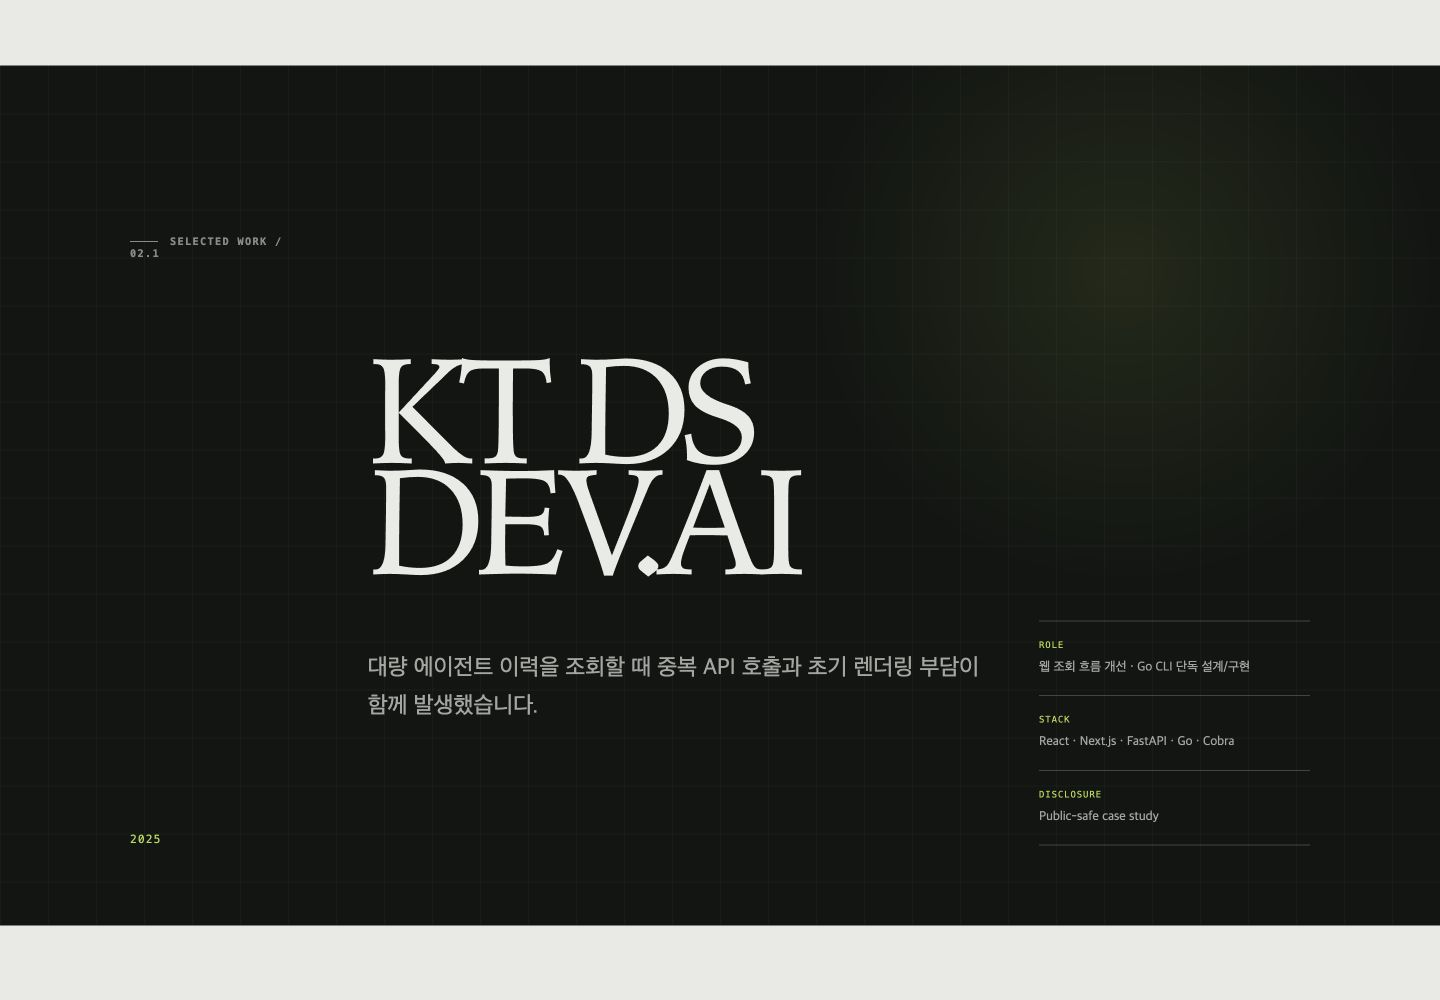
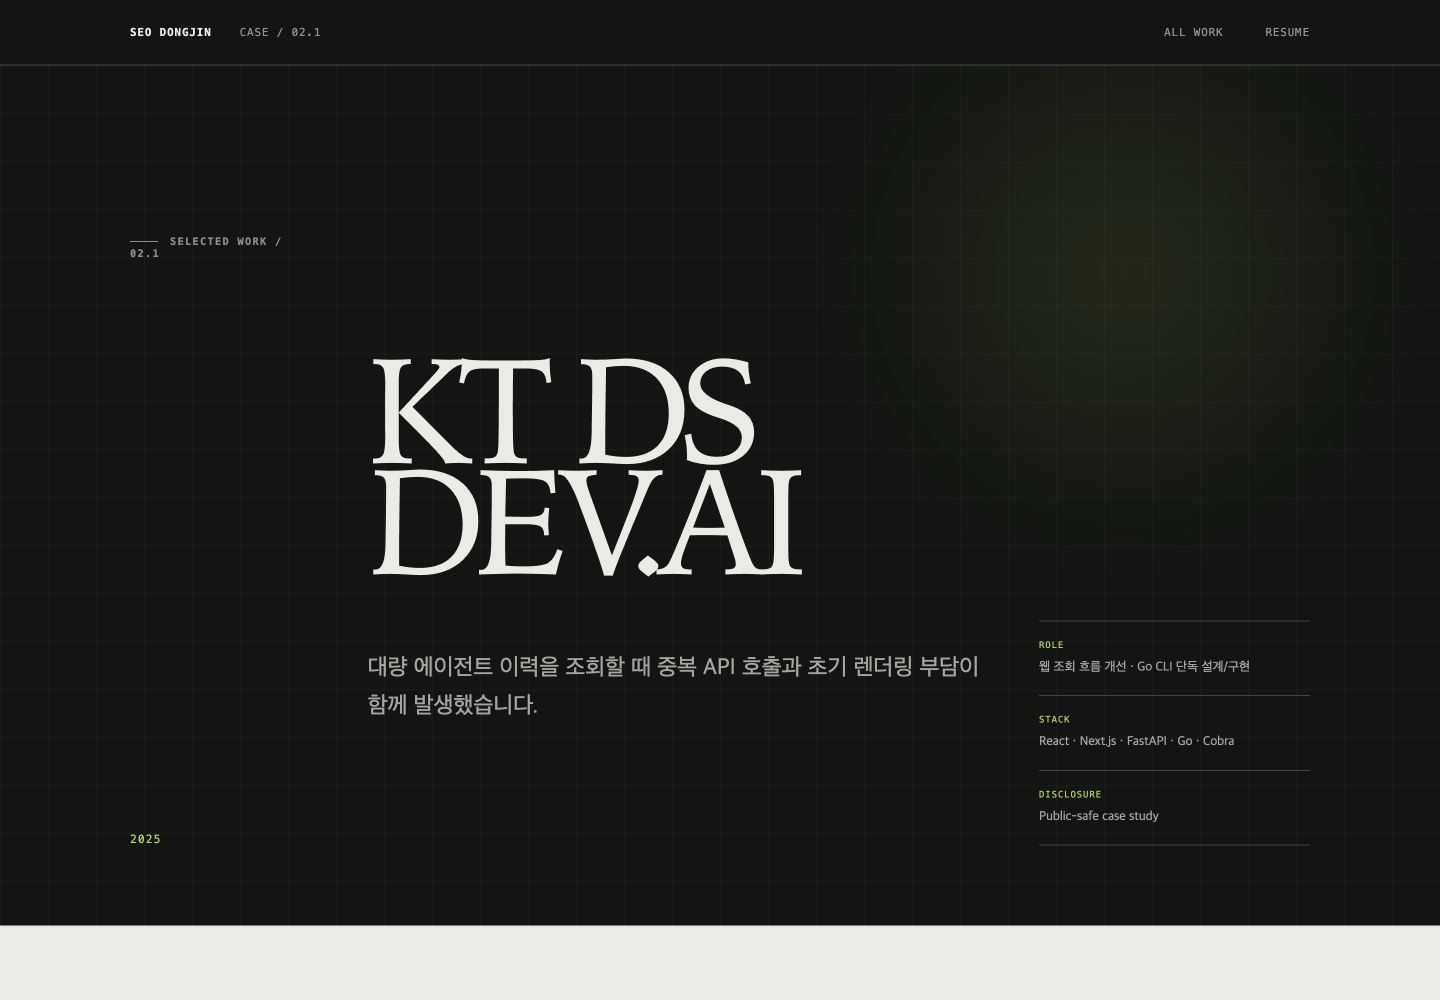
Prepare the portfolio for factual review and static deployment
Add discoverability metadata, maintenance notes, a visible case header, and a complete verification path without inventing contact details or a domain.

Constraint: Final email, GitHub, PDFs, and publication domain remain owner-controlled
Confidence: high
Scope-risk: narrow
Tested: npm run check; git diff --check; three project URLs; unknown slug fallback; console review
Not-tested: True 375px browser emulation due viewport override limitation

Changed region(s): [[0.0, 0.0, 1.0, 0.093]]

diff --git a/index.html b/index.html
@@ -3,6 +3,19 @@
   <head>
     <meta charset="UTF-8" />
     <meta name="viewport" content="width=device-width, initial-scale=1.0" />
+    <meta
+      name="description"
+      content="화면, 서버, 데이터와 운영을 연결해 실제 환경에서 오래 쓰이는 서비스를 만드는 서동진의 개발자 포트폴리오"
+    />
+    <meta name="theme-color" content="#e9e9e4" />
+    <meta property="og:type" content="website" />
+    <meta property="og:locale" content="ko_KR" />
+    <meta property="og:title" content="서동진 — 백엔드 중심 풀스택 개발자" />
+    <meta
+      property="og:description"
+      content="현장에서 쌓은 운영 감각 위에 소프트웨어를 쌓았습니다."
+    />
+    <link rel="icon" href="/favicon.svg" type="image/svg+xml" />
     <title>서동진 — 백엔드 중심 풀스택 개발자</title>
   </head>
   <body>
@@ -10,4 +23,3 @@
     <script type="module" src="/src/main.tsx"></script>
   </body>
 </html>
-

diff --git a/src/styles.css b/src/styles.css
@@ -905,8 +905,13 @@ button:focus-visible {
 }
 
 .case-header {
+  width: 100%;
+  margin: 0;
+  padding-right: max(24px, calc((100vw - 1180px) / 2));
+  padding-left: max(24px, calc((100vw - 1180px) / 2));
   color: #e8ebe5;
   border-color: var(--line-light);
+  background: var(--night);
 }
 
 .case-header .identity__mark,
@@ -1388,8 +1393,8 @@ button:focus-visible {
     gap: 15px;
   }
 
-  .site-header nav a:nth-child(1),
-  .site-header nav a:nth-child(3) {
+  .home-header nav a:nth-child(1),
+  .home-header nav a:nth-child(3) {
     display: none;
   }
 

diff --git a/src/App.tsx b/src/App.tsx
@@ -23,7 +23,7 @@ export default function App() {
         본문 바로가기
       </a>
 
-      <header className="site-header">
+      <header className="site-header home-header">
         <a className="identity" href="/" aria-label="서동진 포트폴리오 홈">
           <span>SEO DONGJIN</span>
           <span className="identity__mark">S/DJ · 2026</span>

diff --git a/README.md b/README.md
@@ -1,0 +1,45 @@
+# 서동진 개발자 포트폴리오
+
+제조 현장 운영, 웹 개발, AI 제품, 금융권 인프라 경험을 `Diffusion Layers`와 `Routing Map`으로 보여주는 정적 포트폴리오입니다.
+
+## 실행
+
+Node.js 24 이상을 권장합니다.
+
+```bash
+npm install
+npm run dev
+```
+
+전체 검증과 배포용 빌드:
+
+```bash
+npm run check
+npm run preview
+```
+
+## 콘텐츠 수정
+
+공개 문구와 프로젝트 데이터는 [`src/content.json`](src/content.json)에 있습니다. 수정 후 `npm run validate:content`를 실행합니다. 대표 프로젝트는 정확히 세 개여야 하며 `[확인 필요]`, `TODO`, `TBD` 표식이 남으면 검증이 실패합니다.
+
+프로젝트 상세 URL은 다음 형식입니다.
+
+```text
+/?project=kt-ds-dev-ai
+/?project=plainpaper
+/?project=ipcc-infrastructure
+```
+
+## 렌더링 원칙
+
+핵심 콘텐츠와 링크는 일반 HTML입니다. `liquid-dom`은 히어로의 장식 렌즈만 담당합니다. WebGPU가 없거나 렌더링에 실패하면 CSS 웨이퍼와 렌즈가 그대로 남습니다.
+
+## 공개 전 확인
+
+- 이메일과 GitHub URL
+- 이력서·경력기술서의 최종 공개 링크
+- 성과 수치의 측정 기준
+- 프로젝트별 공개 가능한 이미지와 코드
+- 금융권 프로젝트의 공개 범위
+
+확인 전에는 수치나 내부 시스템 정보를 임의로 추가하지 않습니다.
